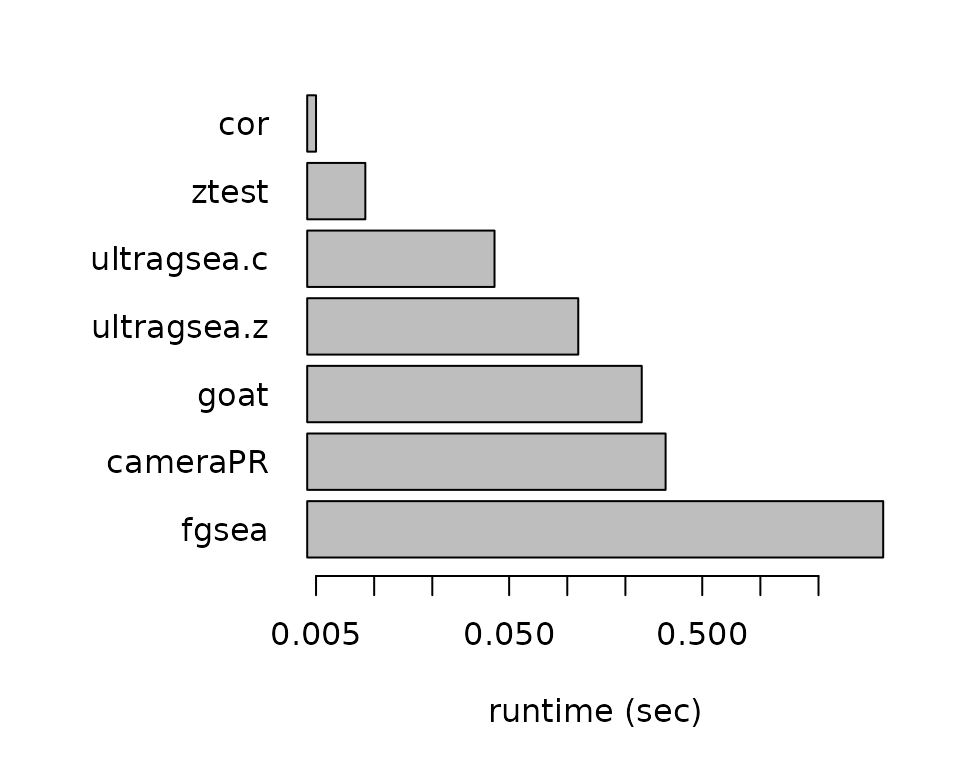
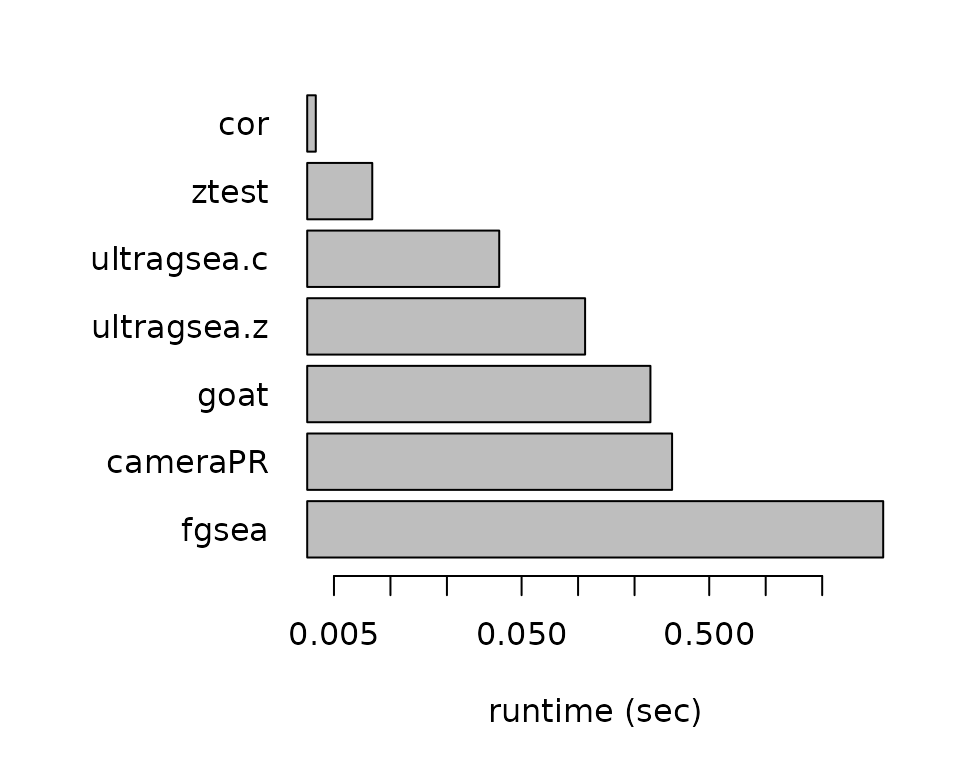
Deploying to gh-pages from @ bigomics/ultragsea@ebf36e5027d5efe22327cf5e8f90abfc398d6c31 🚀

diff --git a/articles/compare-methods.html b/articles/compare-methods.html
@@ -67,13 +67,13 @@ Analytics</h4>
     
     
 <div class="section level2">
-<h2 id="other-pre-ranked-enrichment-methods">Other pre-ranked enrichment methods<a class="anchor" aria-label="anchor" href="#other-pre-ranked-enrichment-methods"></a>
+<h2 id="fast-pre-ranked-enrichment-methods">Fast pre-ranked enrichment methods<a class="anchor" aria-label="anchor" href="#fast-pre-ranked-enrichment-methods"></a>
 </h2>
 <p>For comparisons, we selected some of the currently fastest pre-ranked
 gene set enrichment algorithms:</p>
 <ul>
 <li><p>fGSEA (fast GSEA). fGSEA is currently perhaps the most widely
-used algorithm for pre-ranked enrichment testing. See: <a href="https://github.com/alserglab/fgsea" class="external-link">github</a>.</p></li>
+used algorithm for pre-ranked enrichment testing. See: <a href="https://github.com/alserglab/fgsea" class="external-link">github</a> <a href="https://www.biorxiv.org/content/10.1101/060012v3" class="external-link">bioRxiv</a></p></li>
 <li><p>cameraPR (pre-ranked Camera from the limma package). A version of
 the Camera method for pre-ranked lists. See: <a href="https://academic.oup.com/nar/article/40/17/e133/2411151" class="external-link">paper</a></p></li>
 <li><p>GOAT (Gene set Ordinal Association Test). A very fast method
@@ -165,37 +165,37 @@ of each method.</p>
 <tbody>
 <tr class="odd">
 <td align="left">fgsea</td>
-<td align="right">4.326</td>
+<td align="right">4.229</td>
 <td align="right">4.1</td>
 <td align="right">43.9</td>
 </tr>
 <tr class="even">
 <td align="left">cameraPR</td>
-<td align="right">0.323</td>
+<td align="right">0.317</td>
 <td align="right">0.8</td>
 <td align="right">42.6</td>
 </tr>
 <tr class="odd">
 <td align="left">ultragsea.z</td>
-<td align="right">0.114</td>
+<td align="right">0.109</td>
 <td align="right">1.9</td>
 <td align="right">21.3</td>
 </tr>
 <tr class="even">
 <td align="left">ultragsea.c</td>
-<td align="right">0.042</td>
+<td align="right">0.038</td>
 <td align="right">0.9</td>
 <td align="right">8.9</td>
 </tr>
 <tr class="odd">
 <td align="left">cor</td>
-<td align="right">0.005</td>
+<td align="right">0.004</td>
 <td align="right">0.0</td>
 <td align="right">2.8</td>
 </tr>
 <tr class="even">
 <td align="left">ztest</td>
-<td align="right">0.009</td>
+<td align="right">0.008</td>
 <td align="right">0.0</td>
 <td align="right">6.5</td>
 </tr>

diff --git a/articles/compare-methods.md b/articles/compare-methods.md
@@ -1,13 +1,14 @@
 # Comparing with other methods
 
-## Other pre-ranked enrichment methods
+## Fast pre-ranked enrichment methods
 
 For comparisons, we selected some of the currently fastest pre-ranked
 gene set enrichment algorithms:
 
 - fGSEA (fast GSEA). fGSEA is currently perhaps the most widely used
   algorithm for pre-ranked enrichment testing. See:
-  [github](https://github.com/alserglab/fgsea).
+  [github](https://github.com/alserglab/fgsea)
+  [bioRxiv](https://www.biorxiv.org/content/10.1101/060012v3)
 
 - cameraPR (pre-ranked Camera from the limma package). A version of the
   Camera method for pre-ranked lists. See:
@@ -95,12 +96,12 @@ kableExtra::kable(tt)
 
 | Function_Call | Elapsed_Time_sec | Total_RAM_Used_MiB | Peak_RAM_Used_MiB |
 |:--------------|-----------------:|-------------------:|------------------:|
-| fgsea         |            4.326 |                4.1 |              43.9 |
-| cameraPR      |            0.323 |                0.8 |              42.6 |
-| ultragsea.z   |            0.114 |                1.9 |              21.3 |
-| ultragsea.c   |            0.042 |                0.9 |               8.9 |
-| cor           |            0.005 |                0.0 |               2.8 |
-| ztest         |            0.009 |                0.0 |               6.5 |
+| fgsea         |            4.229 |                4.1 |              43.9 |
+| cameraPR      |            0.317 |                0.8 |              42.6 |
+| ultragsea.z   |            0.109 |                1.9 |              21.3 |
+| ultragsea.c   |            0.038 |                0.9 |               8.9 |
+| cor           |            0.004 |                0.0 |               2.8 |
+| ztest         |            0.008 |                0.0 |               6.5 |
 | goat          |            0.243 |                4.5 |              23.7 |
 
 ``` r
